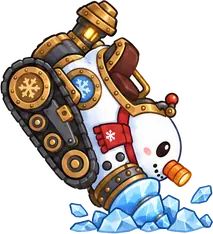
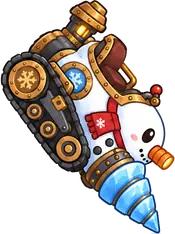
fix(witch): redo shululu swell frames without halo and drill fail frame without ice debris

diff --git a/art/tools/witch_cellfix.py b/art/tools/witch_cellfix.py
@@ -1,0 +1,41 @@
+#!/usr/bin/env python3
+"""动作表单格返修：从 3×3 动作表里裁出第 i 格 → gpt-image edit → 把修好的主体缩放到和原格主体一样高、脚底中心对齐，贴回去
+（原表先备份到 sheets2/_pre/，每次都从备份重做，已经修过的格子一并贴回）→ 之后重新切帧。
+  witch_cellfix.py <表 png> <格号 0-8> "<修改说明>"     修好的单格缓存为 _pre/<表>_c<i>_fix.png，已存在就不再调用生图
+"""
+import os, sys, shutil, subprocess, time, glob, re
+import numpy as np
+from PIL import Image
+GI = os.path.expanduser('~/.claude/skills/gpt-image/scripts/gpt_image.py')
+KEEP = ' Keep everything else exactly the same: same character, same pose, same colors, same outlines, same size and position in the frame. Plain pure white background, no text.'
+
+def bbox(im):
+    a = np.array(im.convert('RGB')).astype(int); m = (a.min(-1) < 235); ys, xs = np.where(m)
+    return (xs.min(), ys.min(), xs.max() + 1, ys.max() + 1) if len(xs) else (0, 0, im.width, im.height)
+
+def main():
+    path, i, what = sys.argv[1], int(sys.argv[2]), sys.argv[3]
+    d = os.path.dirname(path) or '.'; pre = os.path.join(d, '_pre'); os.makedirs(pre, exist_ok=True); name = os.path.basename(path)
+    b = os.path.join(pre, name)
+    if not os.path.exists(b): shutil.copy(path, b)
+    orig = Image.open(b).convert('RGB'); W, H = orig.size; cw, ch = W // 3, H // 3
+    box = lambda j: ((j % 3) * cw, (j // 3) * ch, (j % 3 + 1) * cw, (j // 3 + 1) * ch)
+    cell = os.path.join(pre, name.replace('.png', f'_c{i}.png')); fixed = cell.replace('.png', '_fix.png')
+    orig.crop(box(i)).save(cell)
+    if not os.path.exists(fixed):
+        for attempt in range(6):
+            r = subprocess.run(['python3', GI, 'edit', 'Edit this image: ' + what + KEEP, '-i', cell, '-o', fixed, '-s', '1024x1024', '-q', 'high'], capture_output=True, text=True)
+            if r.returncode == 0 and os.path.exists(fixed): break
+            err = (r.stderr + r.stdout)[-200:]; print('retry', err); time.sleep(65 if '429' in err else 10)
+    if not os.path.exists(fixed): raise SystemExit('edit failed')
+    out = orig.copy()
+    for f in sorted(glob.glob(os.path.join(pre, name.replace('.png', '_c*_fix.png')))):
+        j = int(re.search(r'_c(\d)_fix', f).group(1)); c0 = orig.crop(box(j)); ob = bbox(c0)
+        fx = Image.open(f).convert('RGB'); fb = bbox(fx); sub = fx.crop(fb)
+        k = (ob[3] - ob[1]) / sub.height; sub = sub.resize((max(1, round(sub.width * k)), max(1, round(sub.height * k))), Image.LANCZOS)
+        cell_new = Image.new('RGB', c0.size, (255, 255, 255)); cx = (ob[0] + ob[2]) / 2
+        cell_new.paste(sub, (round(cx - sub.width / 2), ob[3] - sub.height)); out.paste(cell_new, box(j)[:2]); print('paste', j, 'scale', round(k, 3))
+    out.save(path); print('ok', path)
+
+if __name__ == '__main__':
+    main()
